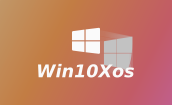
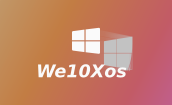
update

Changed region(s): [[0.3198, 0.6, 0.7849, 0.7429]]

diff --git a/sddm/We10XOS-kde/Main.qml b/sddm/We10XOS-kde/Main.qml
@@ -202,28 +202,28 @@ PlasmaCore.ColorScope {
 
                 actionItems: [
                     ActionButton {
-                        iconSource: "/usr/share/sddm/themes/Win10XOS-Concept/assets/suspend_primary.svgz"
+                        iconSource: "/usr/share/sddm/themes/We10XOS-kde/assets/suspend_primary.svgz"
                         text: i18ndc("plasma_lookandfeel_org.kde.lookandfeel","Suspend to RAM","Sleep")
                         onClicked: sddm.suspend()
                         enabled: sddm.canSuspend
                         visible: !inputPanel.keyboardActive
                     },
                     ActionButton {
-                        iconSource: "/usr/share/sddm/themes/Win10XOS-Concept/assets/restart_primary.svgz"
+                        iconSource: "/usr/share/sddm/themes/We10XOS-kde/assets/restart_primary.svgz"
                         text: i18nd("plasma_lookandfeel_org.kde.lookandfeel","Restart")
                         onClicked: sddm.reboot()
                         enabled: sddm.canReboot
                         visible: !inputPanel.keyboardActive
                     },
                     ActionButton {
-                        iconSource: "/usr/share/sddm/themes/Win10XOS-Concept/assets/shutdown_primary.svgz"
+                        iconSource: "/usr/share/sddm/themes/We10XOS-kde/assets/shutdown_primary.svgz"
                         text: i18nd("plasma_lookandfeel_org.kde.lookandfeel","Shut Down")
                         onClicked: sddm.powerOff()
                         enabled: sddm.canPowerOff
                         visible: !inputPanel.keyboardActive
                     },
                     ActionButton {
-                        iconSource: "/usr/share/sddm/themes/Win10XOS-Concept/assets/switch_primary.svgz"
+                        iconSource: "/usr/share/sddm/themes/We10XOS-kde/assets/switch_primary.svgz"
                         text: i18ndc("plasma_lookandfeel_org.kde.lookandfeel", "For switching to a username and password prompt", "Other...")
                         onClicked: mainStack.push(userPromptComponent)
                         enabled: true
@@ -381,28 +381,28 @@ PlasmaCore.ColorScope {
 
                 actionItems: [
                     ActionButton {
-                        iconSource: "/usr/share/sddm/themes/Win10XOS-Concept/assets/suspend_primary.svgz"
+                        iconSource: "/usr/share/sddm/themes/We10XOS-kde/assets/suspend_primary.svgz"
                         text: i18ndc("plasma_lookandfeel_org.kde.lookandfeel","Suspend to RAM","Sleep")
                         onClicked: sddm.suspend()
                         enabled: sddm.canSuspend
                         iconSize: root.generalFontSize * 3
                     },
                     ActionButton {
-                        iconSource: "/usr/share/sddm/themes/Win10XOS-Concept/assets/restart_primary.svgz"
+                        iconSource: "/usr/share/sddm/themes/We10XOS-kde/assets/restart_primary.svgz"
                         text: i18nd("plasma_lookandfeel_org.kde.lookandfeel","Restart")
                         onClicked: sddm.reboot()
                         enabled: sddm.canReboot
                         visible: !inputPanel.keyboardActive
                     },
                     ActionButton {
-                        iconSource: "/usr/share/sddm/themes/Win10XOS-Concept/assets/shutdown_primary.svgz"
+                        iconSource: "/usr/share/sddm/themes/We10XOS-kde/assets/shutdown_primary.svgz"
                         text: i18nd("plasma_lookandfeel_org.kde.lookandfeel","Shut Down")
                         onClicked: sddm.powerOff()
                         enabled: sddm.canPowerOff
                         visible: !inputPanel.keyboardActive
                     },
                     ActionButton {
-                        iconSource: "/usr/share/sddm/themes/Win10XOS-Concept/assets/switch_primary.svgz"
+                        iconSource: "/usr/share/sddm/themes/We10XOS-kde/assets/switch_primary.svgz"
                         text: i18nd("plasma_lookandfeel_org.kde.lookandfeel","List Users")
                         onClicked: mainStack.pop()
                         visible: !inputPanel.keyboardActive
